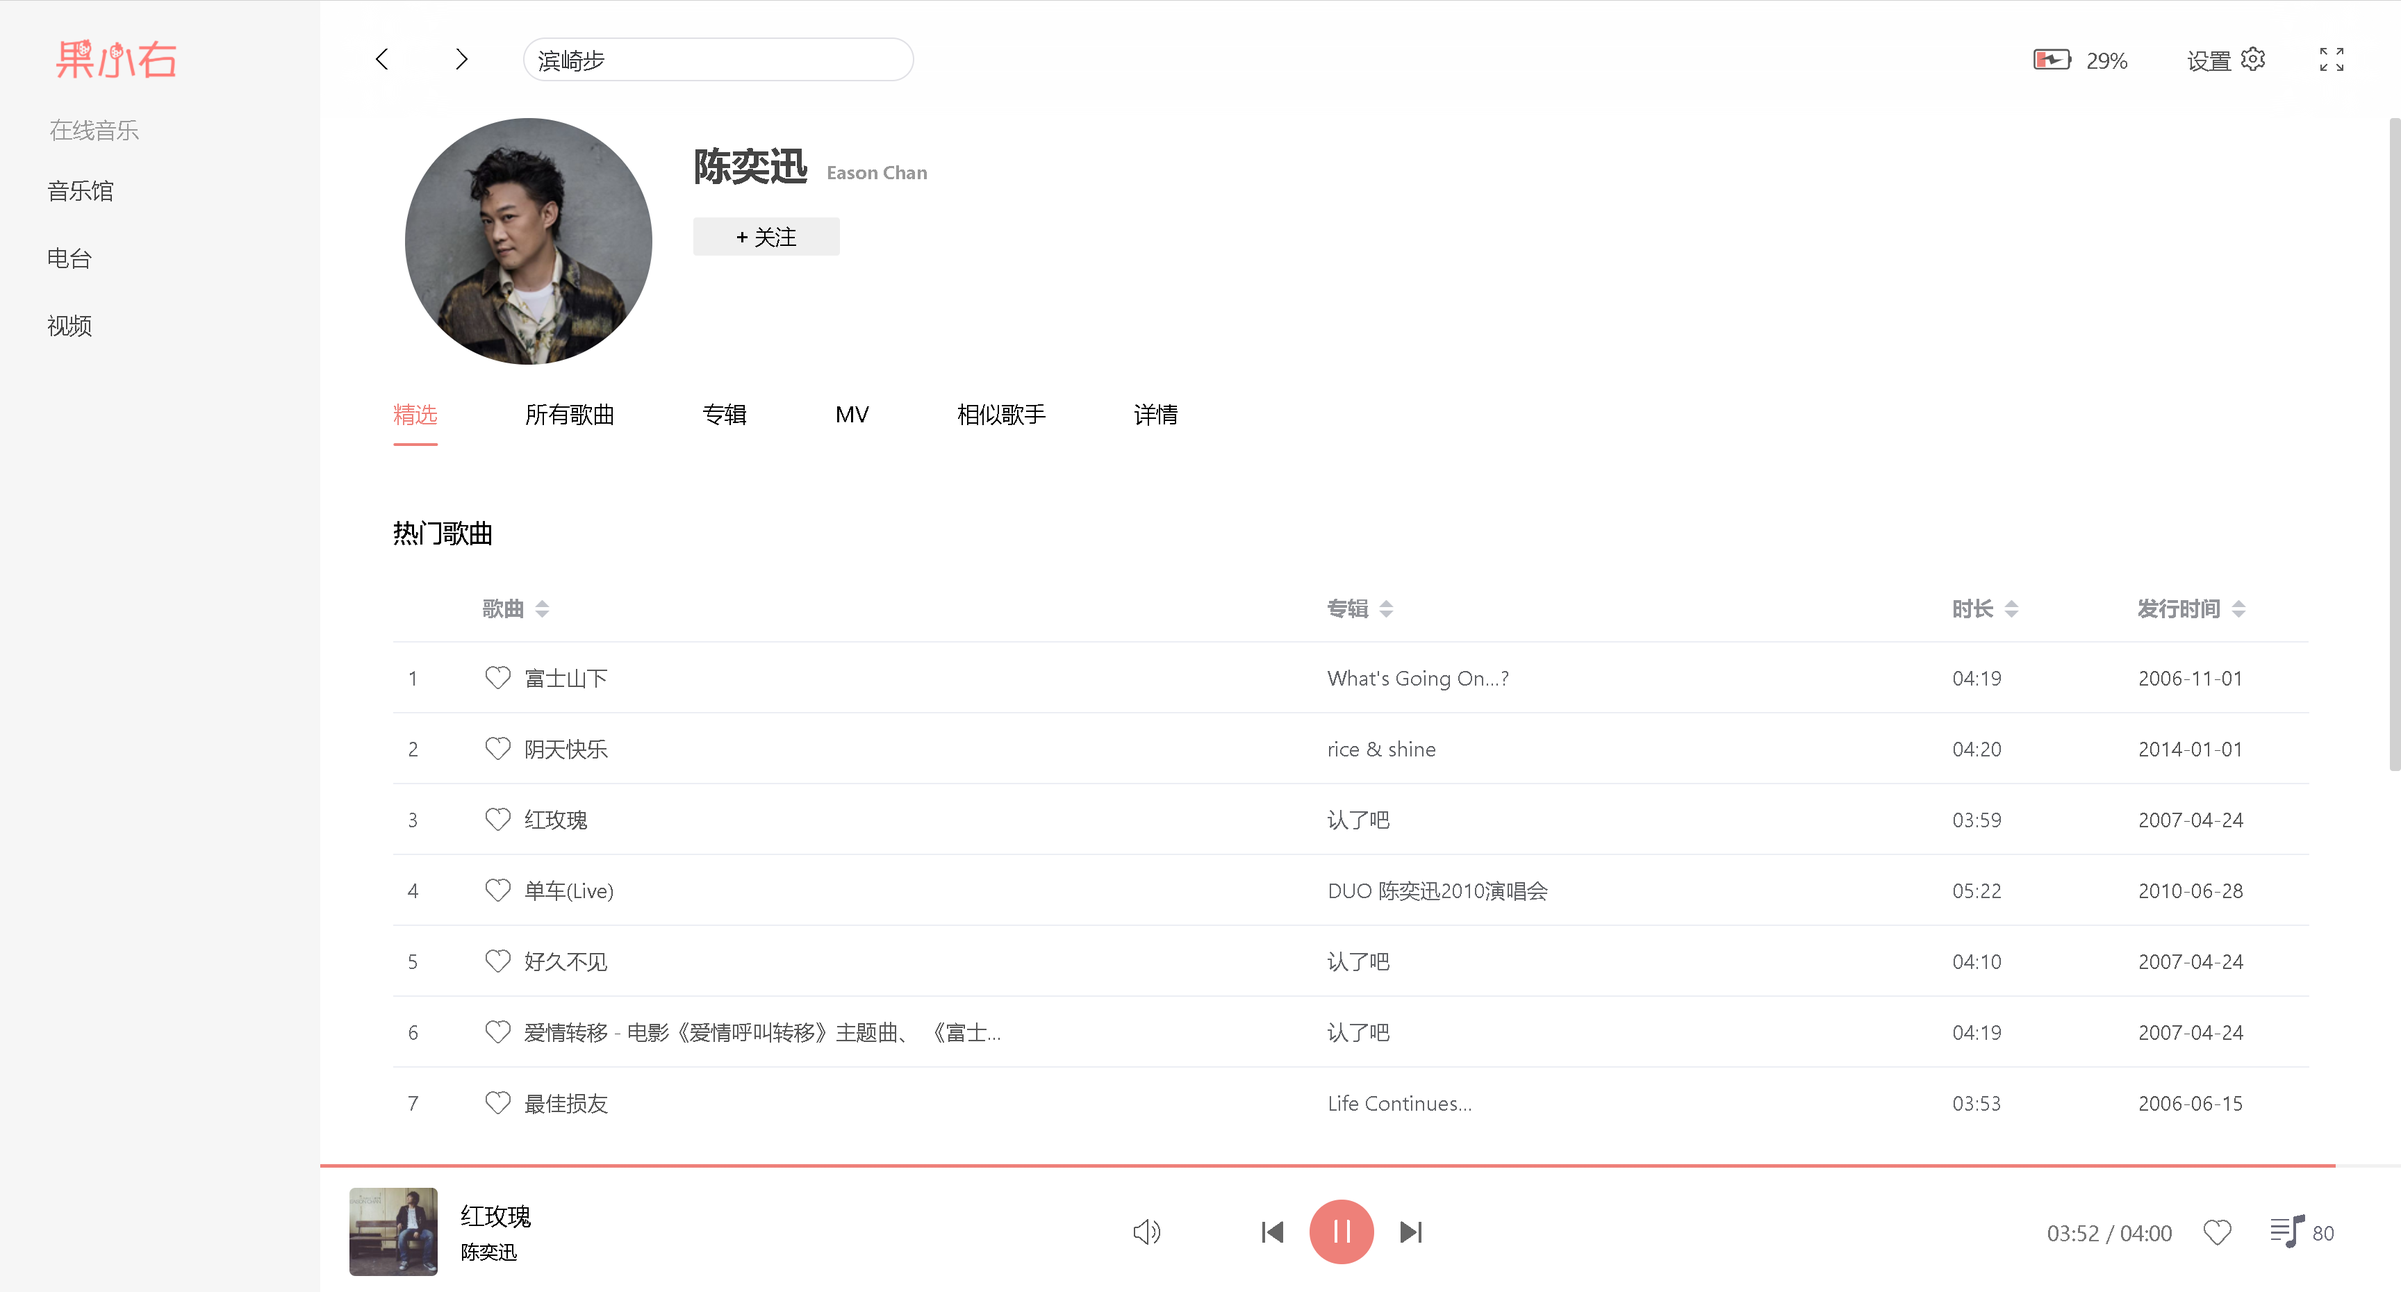
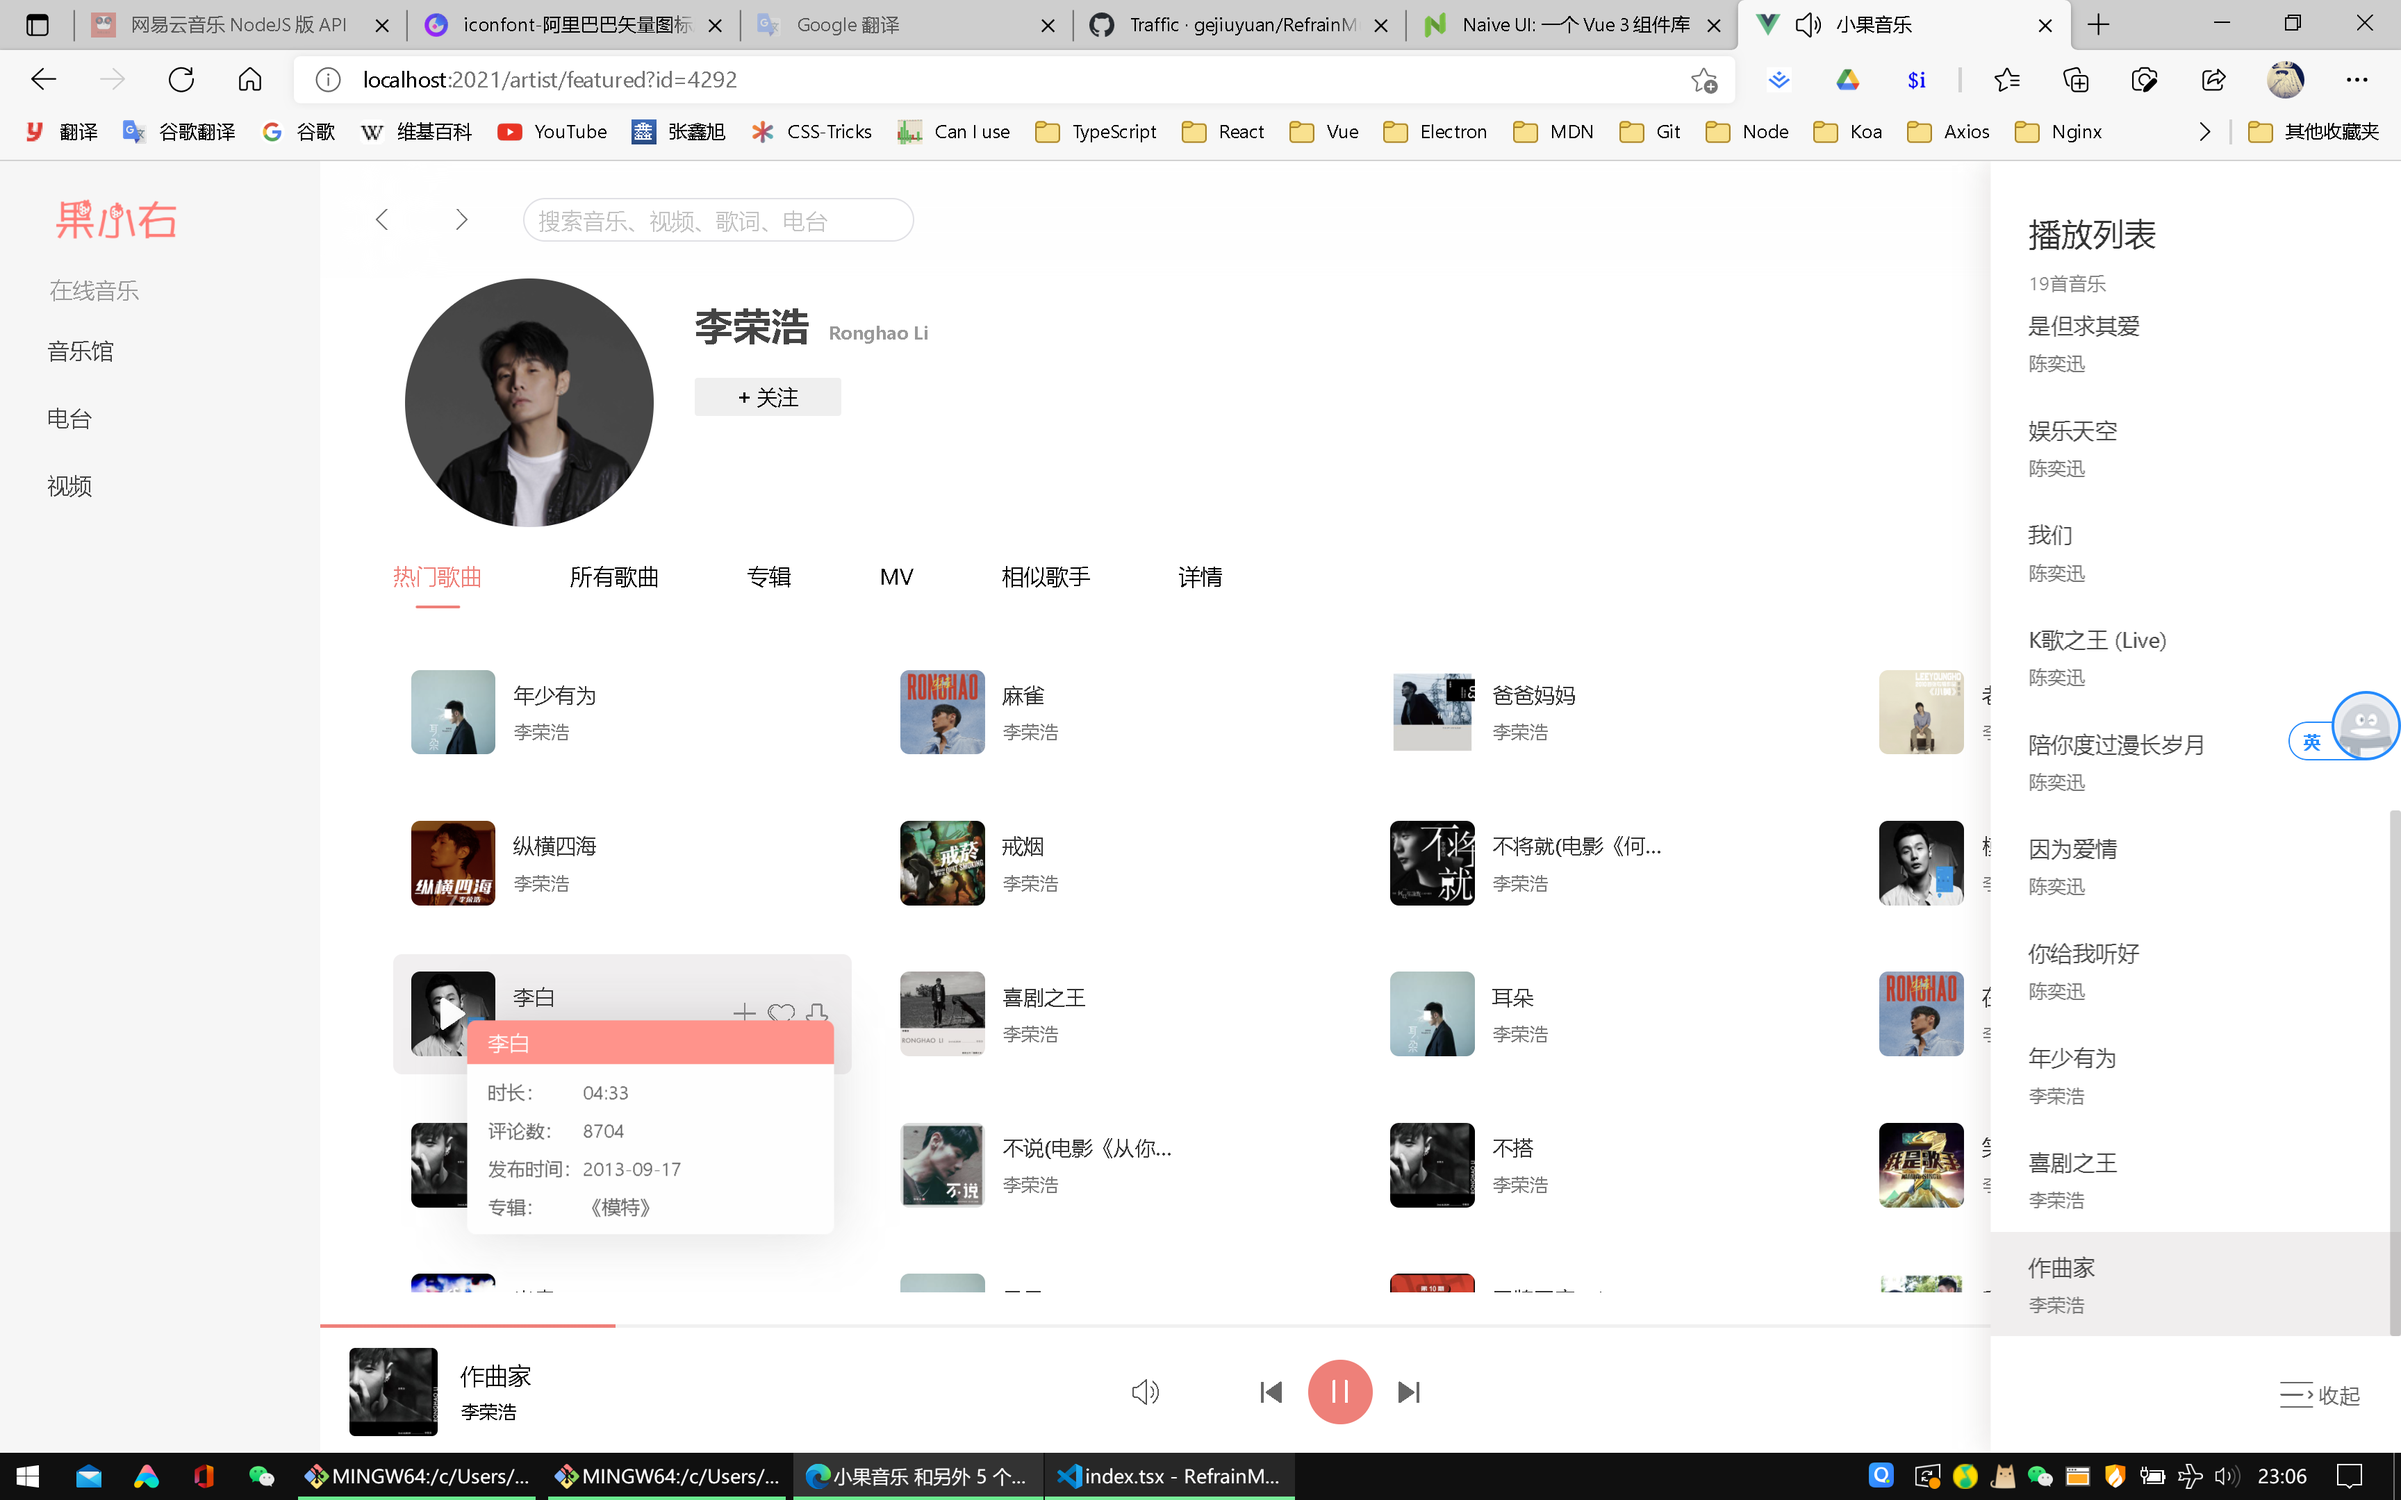
调整播放列表布局；收起图表点击关闭

diff --git a/src/components/home/player-queue/index.scss b/src/components/home/player-queue/index.scss
@@ -1,6 +1,10 @@
 @import "@scss/variable";
+@import "@scss/common";
+
 
 .player-queue {
+  @include flex();
+  flex-direction: column;
   position: absolute;
   left: 100%;
   top: 0;
@@ -16,8 +20,7 @@
   }
 
   .queue-header {
-    padding-top: 38px;
-    padding-left: 26px;
+    padding: 38px 28px 0 26px;
 
     h3 {
       color: #333;
@@ -34,7 +37,7 @@
   }
 
   .queue-body {
-    overflow: hidden;
+    flex: 1;
     .song-item {
       padding: 16px 28px 16px 26px;
       transition: background-color 0.12s;
@@ -57,4 +60,31 @@
       }
     }
   }
+
+  .queue-foot {
+    @include flexHeVc();
+    height: 80px;
+    padding: 0 28px 0 26px;
+
+    em {
+      color: #666;
+      transition: color .1s;
+      cursor: pointer;
+      &:hover {
+        color: var(--theme);
+      }
+    }
+
+    span {
+      font-size: 14px;
+      text-indent: .2em;
+      vertical-align: middle;
+    }
+
+    i {
+      font-size: 30px;
+      vertical-align: middle;
+    }
+  }
+
 }

diff --git a/src/components/home/player-queue/index.tsx b/src/components/home/player-queue/index.tsx
@@ -1,5 +1,6 @@
 import usePlayerStore from "@/stores/player";
 import { onClickOutside } from "@vueuse/core";
+import { spawn } from "node:child_process";
 import { defineComponent, ref } from "vue";
 import { useRoute, useRouter } from "vue-router";
 import "./index.scss";
@@ -46,7 +47,7 @@ export default defineComponent({
               </em>
             </div>
           </header>
-          <section class="queue-body">
+          <section class="queue-body" scrollbar="overlay">
             <ul>
               {songList.map(({ name, artists, id }) => {
                 return (
@@ -64,6 +65,12 @@ export default defineComponent({
               })}
             </ul>
           </section>
+          <footer class="queue-foot">
+            <em onClick={hidePlayerQueueHandler}>
+              <i className="iconfont icon-icon-1" title={"收起"}></i>
+              <span>收起</span>
+            </em>
+          </footer>
         </aside>
       );
     };

diff --git a/src/widgets/song-list/index.tsx b/src/widgets/song-list/index.tsx
@@ -13,7 +13,7 @@ import {
   onBeforeRouteLeave,
   onBeforeRouteUpdate,
 } from "vue-router";
-import RoutePagination from "@widgets/route-pagination";
+import RoutePagination from "@/widgets/route-pagination";
 import "./index.scss";
 import { NEmpty, NGrid, NGridItem } from "naive-ui";
 import { UNICODE_CHAR, padPicCrop } from "@utils/index";
